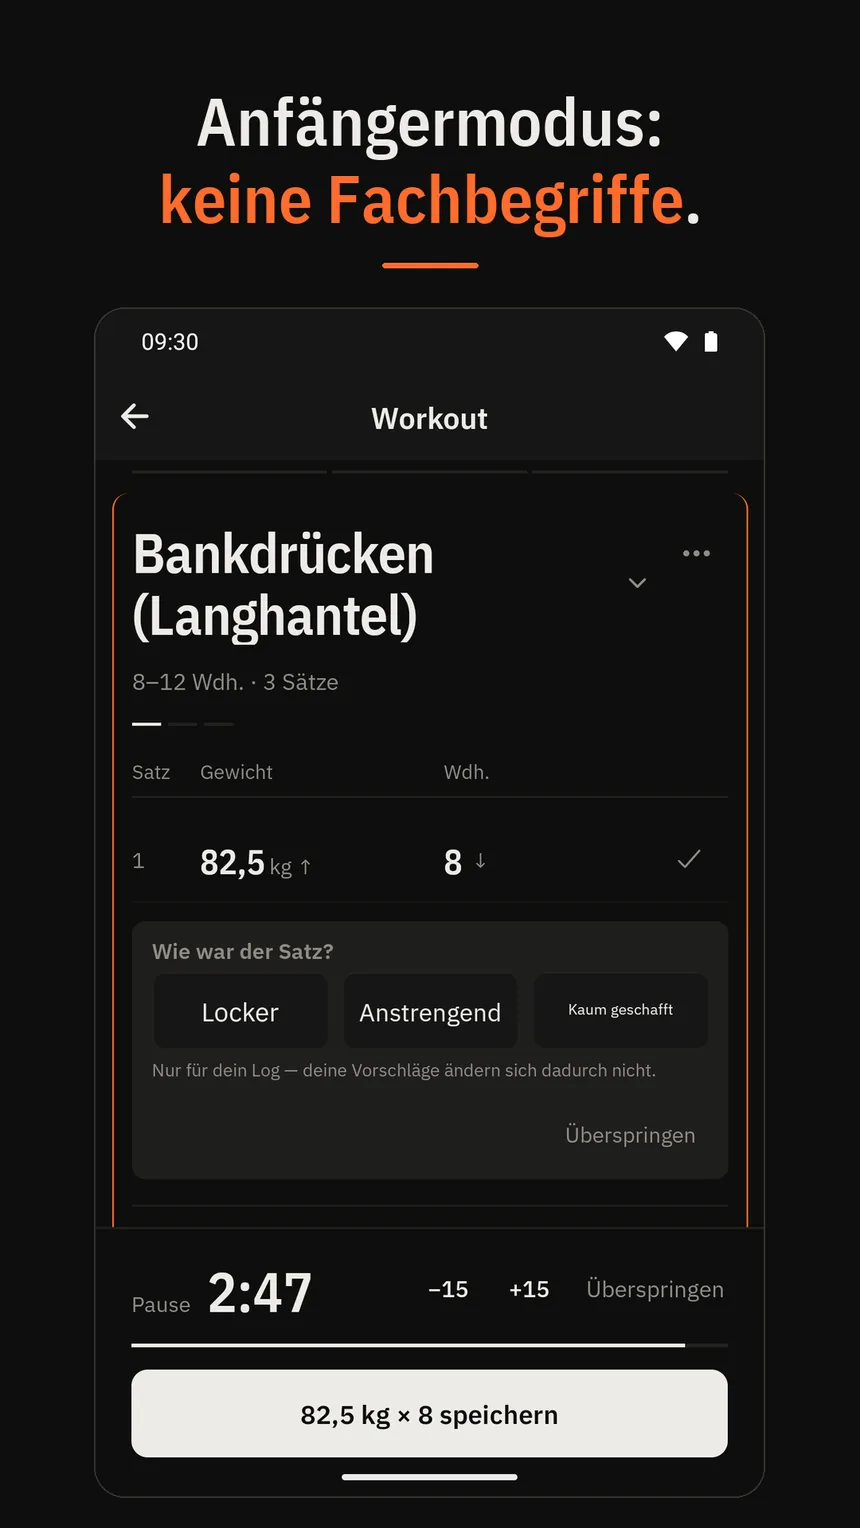
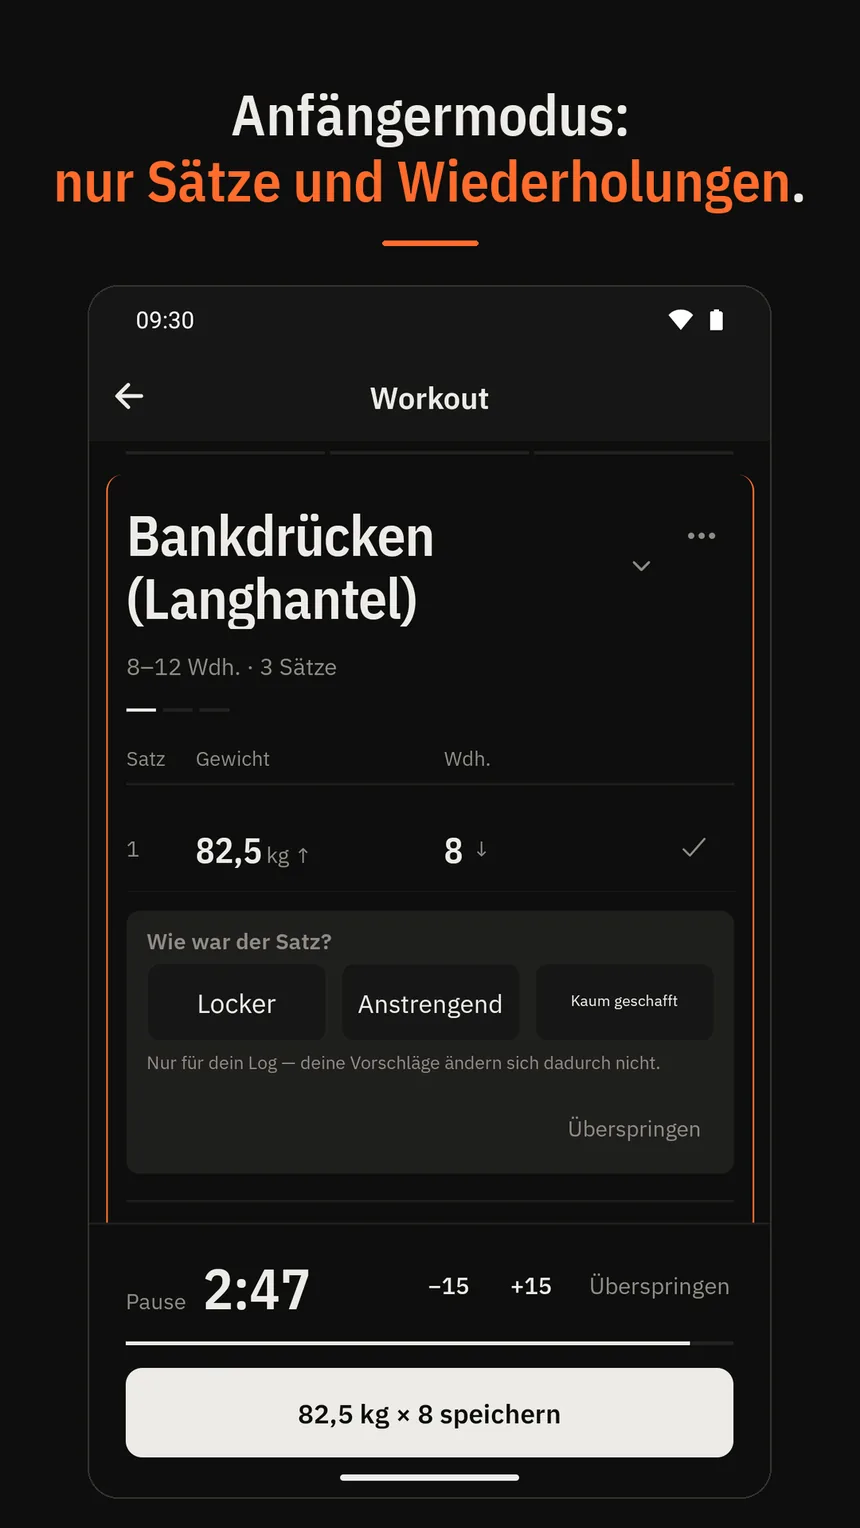
Landing: Bild 3 und Bildunterschrift mit neuer Store-Ueberschrift

diff --git a/index.html b/index.html
@@ -254,7 +254,7 @@
       </figure>
       <figure class="shot" style="margin:0">
         <img src="assets/screenshot-3.webp" alt="Anfängermodus: Nach dem Satz fragt die App, wie er war, mit den Antworten Locker, Anstrengend und Kaum geschafft" width="430" height="764" loading="lazy" decoding="async">
-        <p>Anfängermodus: ohne RIR.</p>
+        <p>Anfängermodus: nur Sätze und Wiederholungen.</p>
       </figure>
     </div>
 
